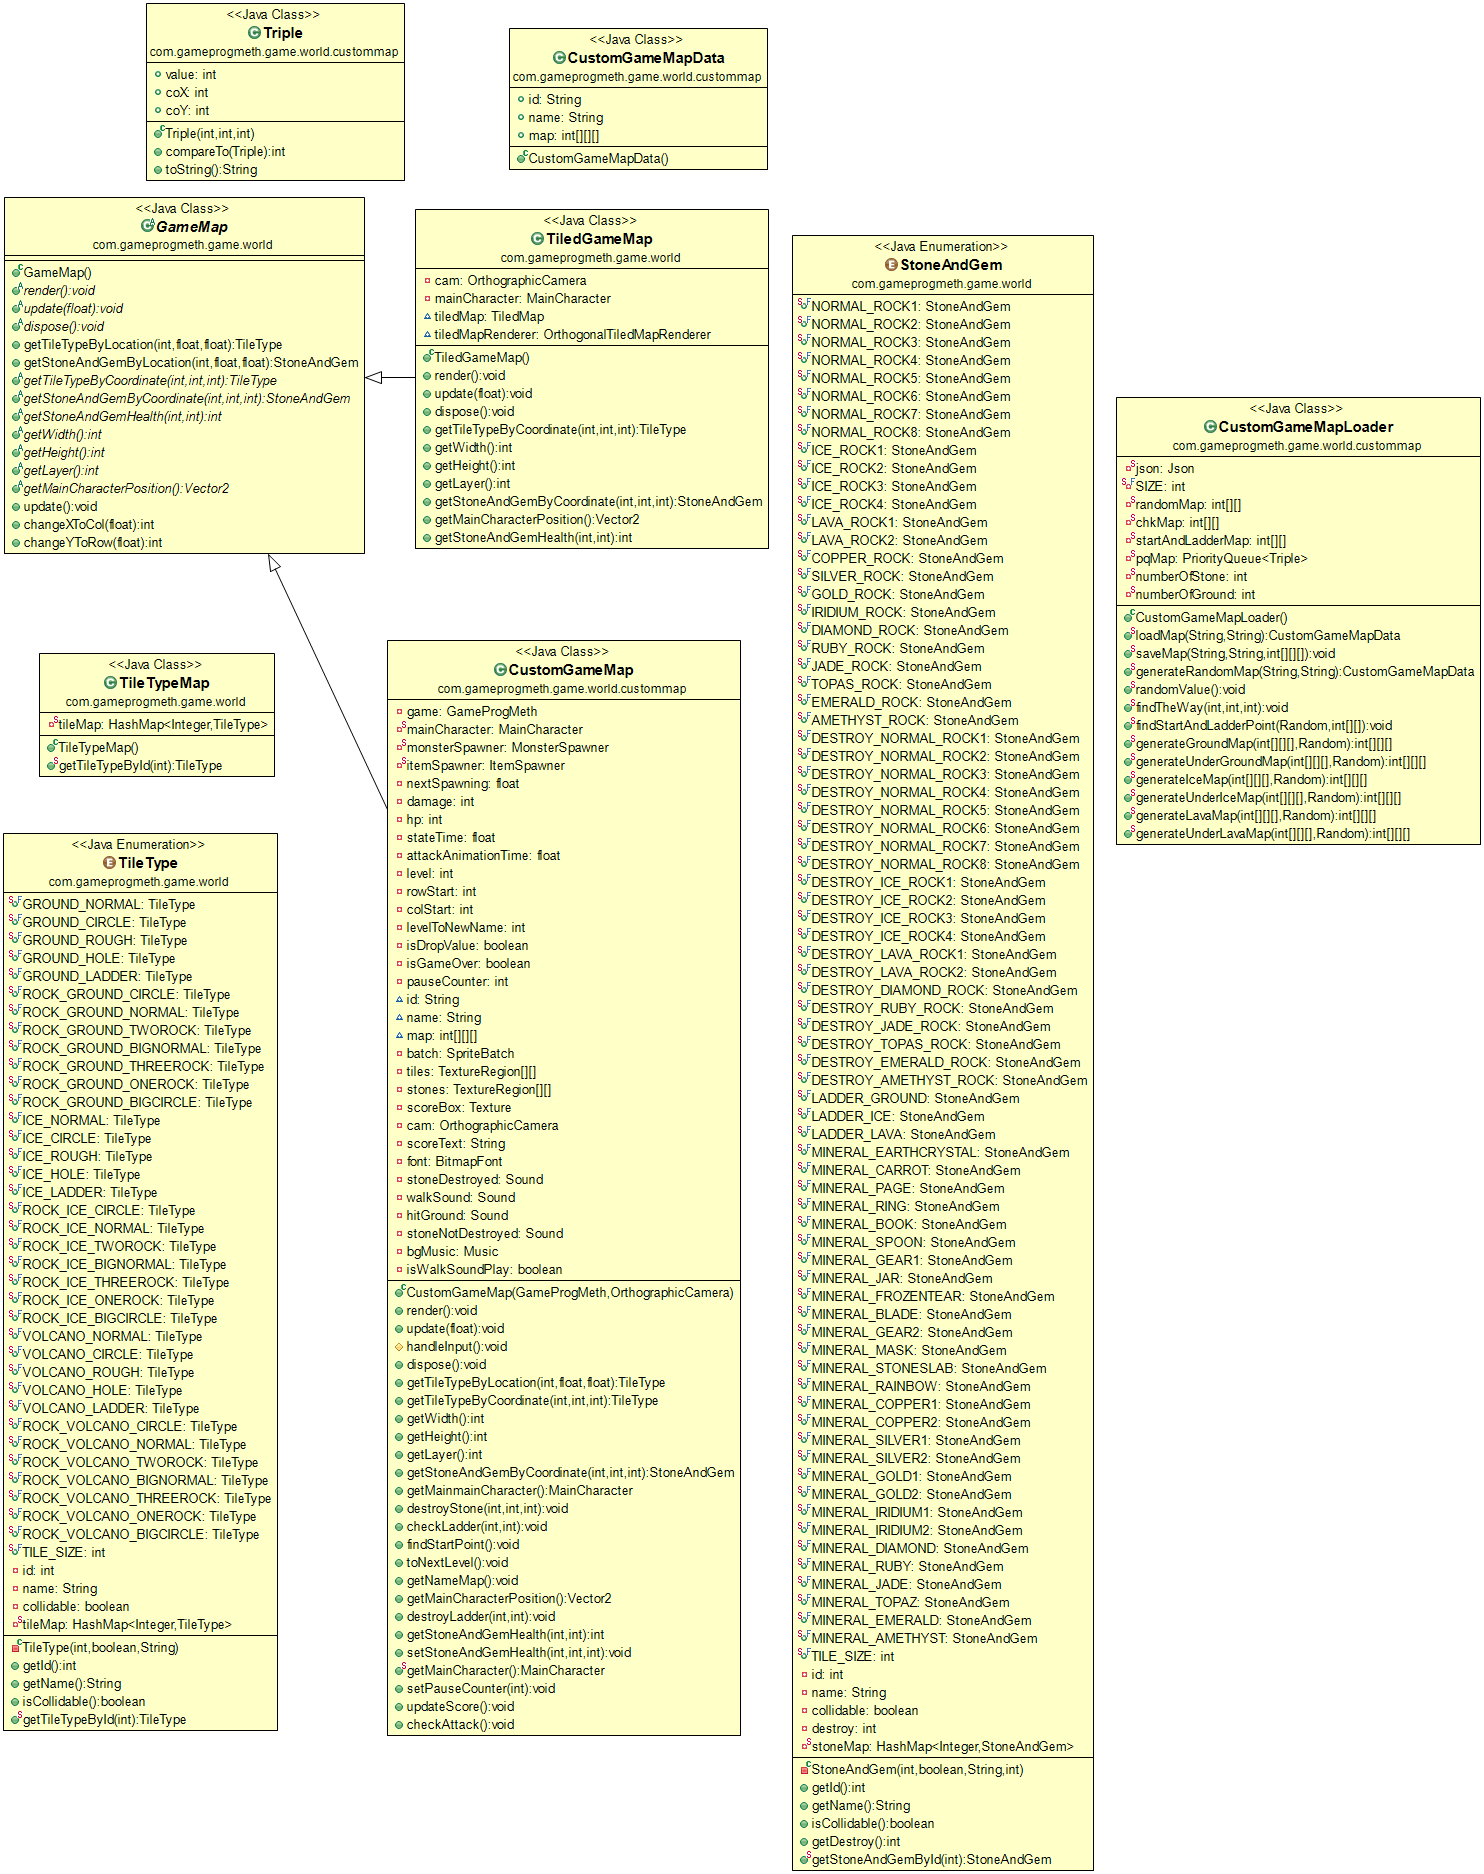
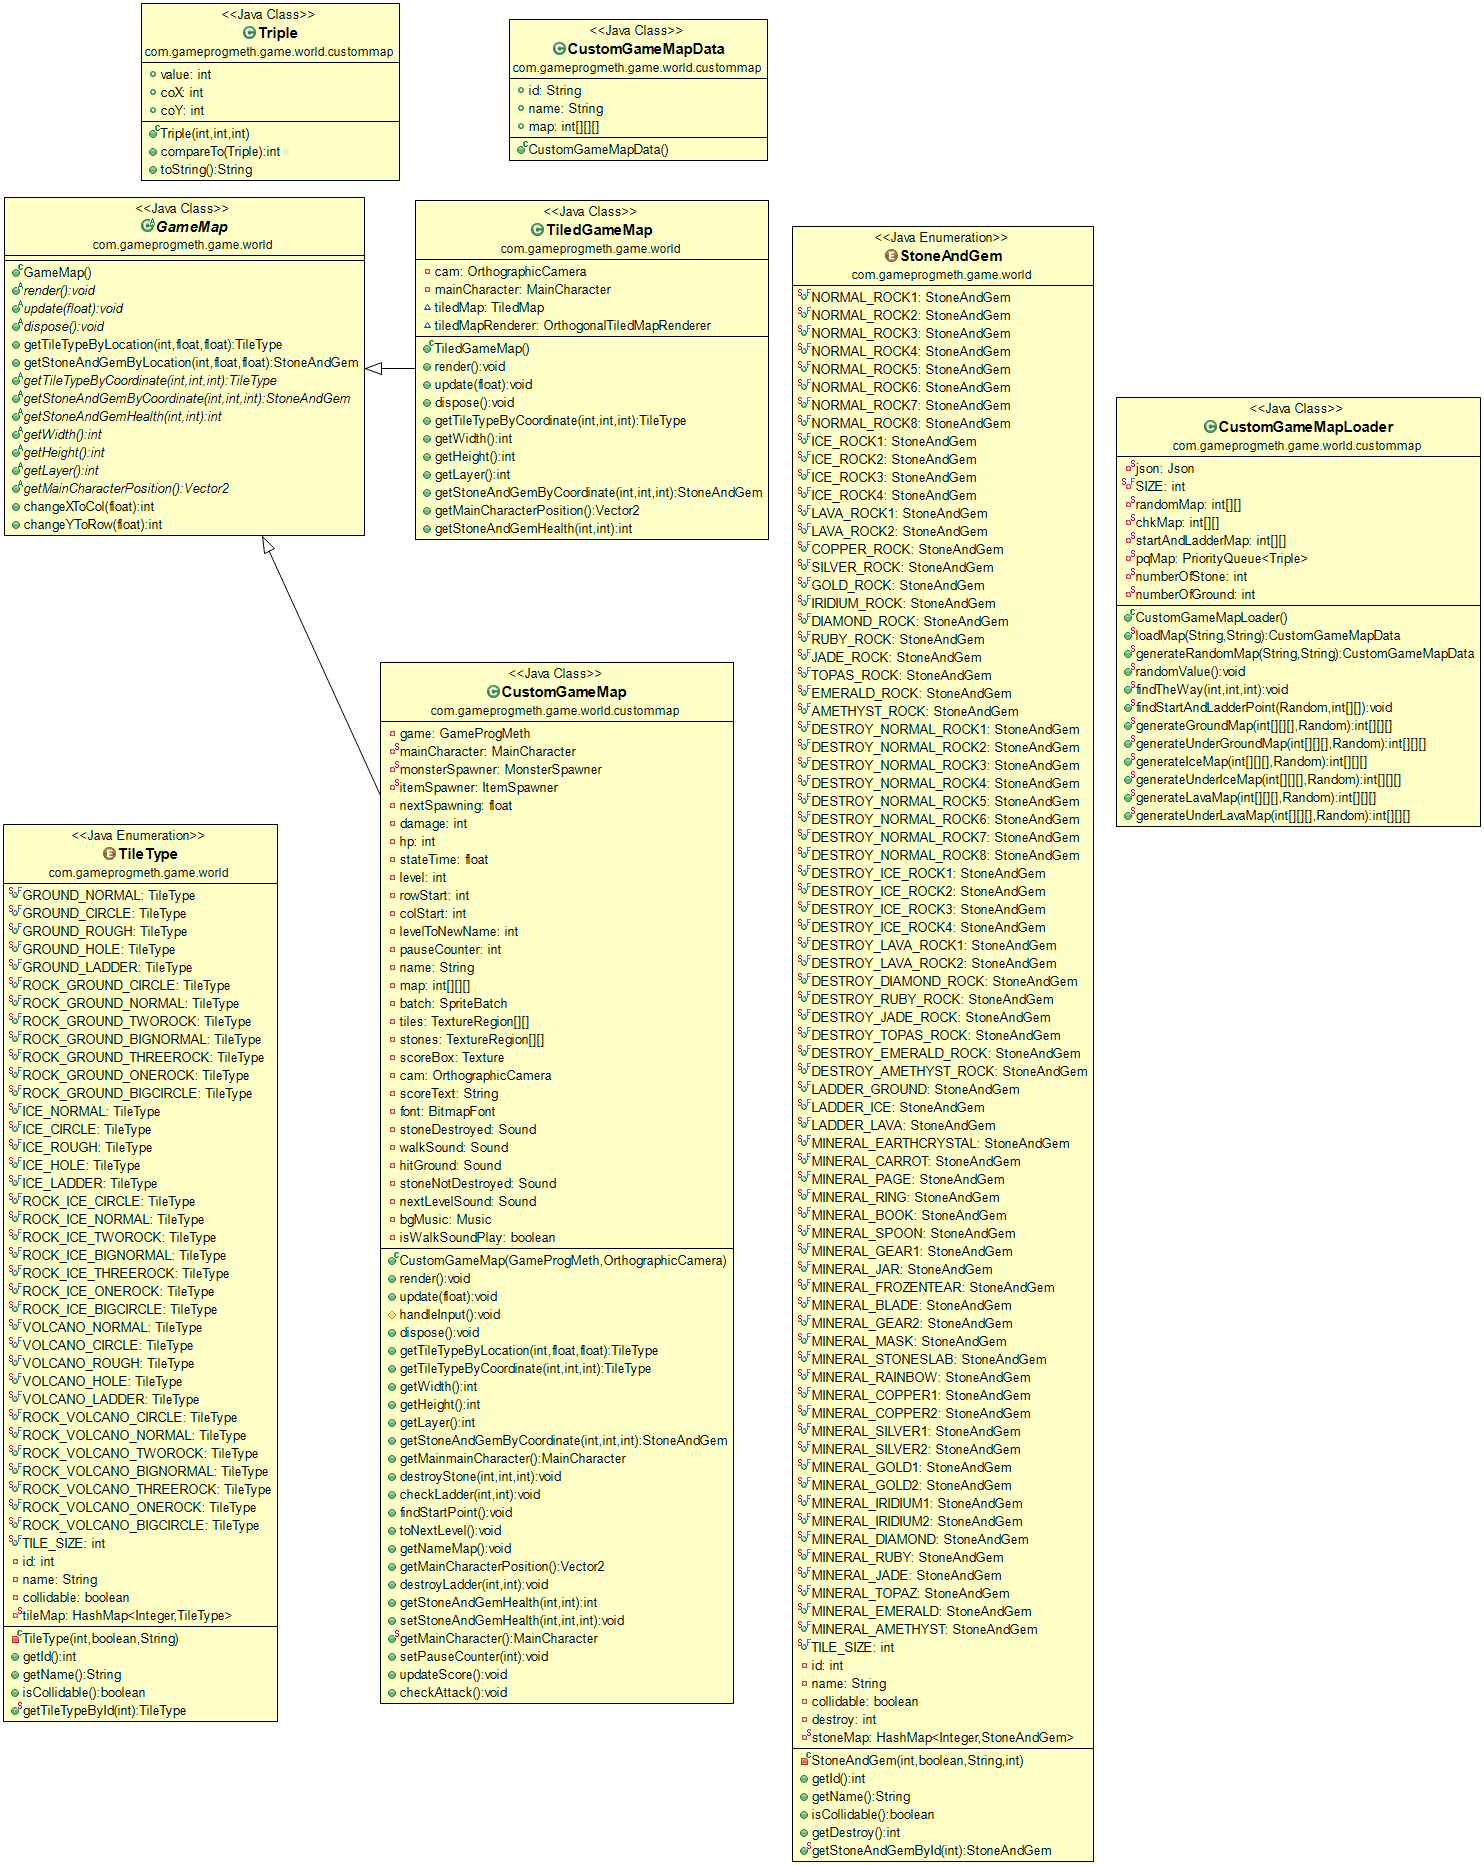
Add sound Nextlevel

Changed region(s): [[0.248, 0.0, 1.0, 0.9952], [0.0, 0.3421, 0.186, 0.933], [0.0, 0.0, 0.279, 0.311]]

diff --git a/core/src/com/gameprogmeth/game/world/custommap/CustomGameMap.java b/core/src/com/gameprogmeth/game/world/custommap/CustomGameMap.java
@@ -48,6 +48,7 @@ public class CustomGameMap extends GameMap {
 	private Sound walkSound;
 	private Sound hitGround;
 	private Sound stoneNotDestroyed;
+	private Sound nextLevelSound;
 	private Music bgMusic;
 	private boolean isWalkSoundPlay;
 
@@ -81,6 +82,7 @@ public class CustomGameMap extends GameMap {
 		walkSound = Gdx.audio.newSound(Gdx.files.internal("music/WalkSound.mp3"));
 		hitGround = Gdx.audio.newSound(Gdx.files.internal("music/HitGround.wav"));
 		stoneNotDestroyed = Gdx.audio.newSound(Gdx.files.internal("music/HitStoneNotDestroyed.wav"));
+		nextLevelSound = Gdx.audio.newSound(Gdx.files.internal("music/NextLevelSound.mp3"));
 		bgMusic = Gdx.audio.newMusic(Gdx.files.internal("music/Under_Cover.mp3"));
 		bgMusic.setLooping(true);
 		bgMusic.play();
@@ -224,6 +226,7 @@ public class CustomGameMap extends GameMap {
 		hitGround.dispose();
 		stoneDestroyed.dispose();
 		stoneNotDestroyed.dispose();
+		nextLevelSound.dispose();
 		batch.dispose();
 	}
 
@@ -309,6 +312,7 @@ public class CustomGameMap extends GameMap {
 	}
 
 	public void toNextLevel() {
+		nextLevelSound.play();
 		level += 1;
 		getNameMap();
 		CustomGameMapData newdata = CustomGameMapLoader.loadMap("level" + level, name);

diff --git a/core/src/spawners/ItemSpawner.java b/core/src/spawners/ItemSpawner.java
@@ -15,6 +15,7 @@ public class ItemSpawner {
 	private ArrayList<Integer> markForRemoved;
 	private MainCharacter player;
 	private int level;
+	private int typeDrop, rowDrop, colDrop;
 	private OrthographicCamera cam;
 
 	public ItemSpawner(MainCharacter player, int level, OrthographicCamera cam) {
@@ -47,8 +48,6 @@ public class ItemSpawner {
 			}
 		}
 	}
-
-	int typeDrop, rowDrop, colDrop;
 
 	public void dropValueable(int x, int y) {
 		typeDrop = -1;
